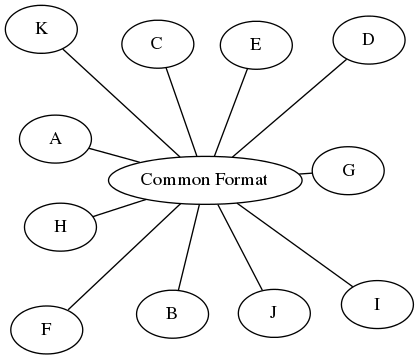
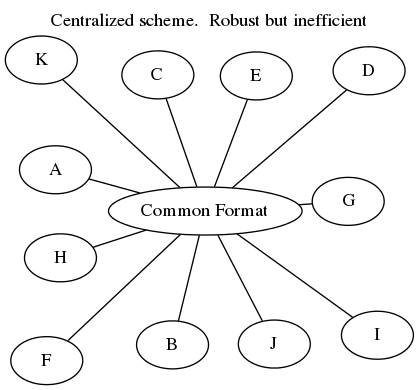
change star image

diff --git a/_posts/work/2015-02-03-Into.md b/_posts/work/2015-02-03-Into.md
@@ -158,10 +158,7 @@ Translate line-delimited JSON into a Pandas DataFrame
 How does it work?
 -----------------
 
-<figure align="right" width="400px">
-<img src="{{BASE_PATH}}/images/star.png">
-<figcaption>A centralized scheme.  Robust but inefficient.</figcaption>
-</figure>
+<img src="{{BASE_PATH}}/images/star.png" align="right" width="300px">
 
 This is challenging.  Robust and efficient conversions between any two pairs of
 formats is fraught with special cases and bizarre libraries.  The common
